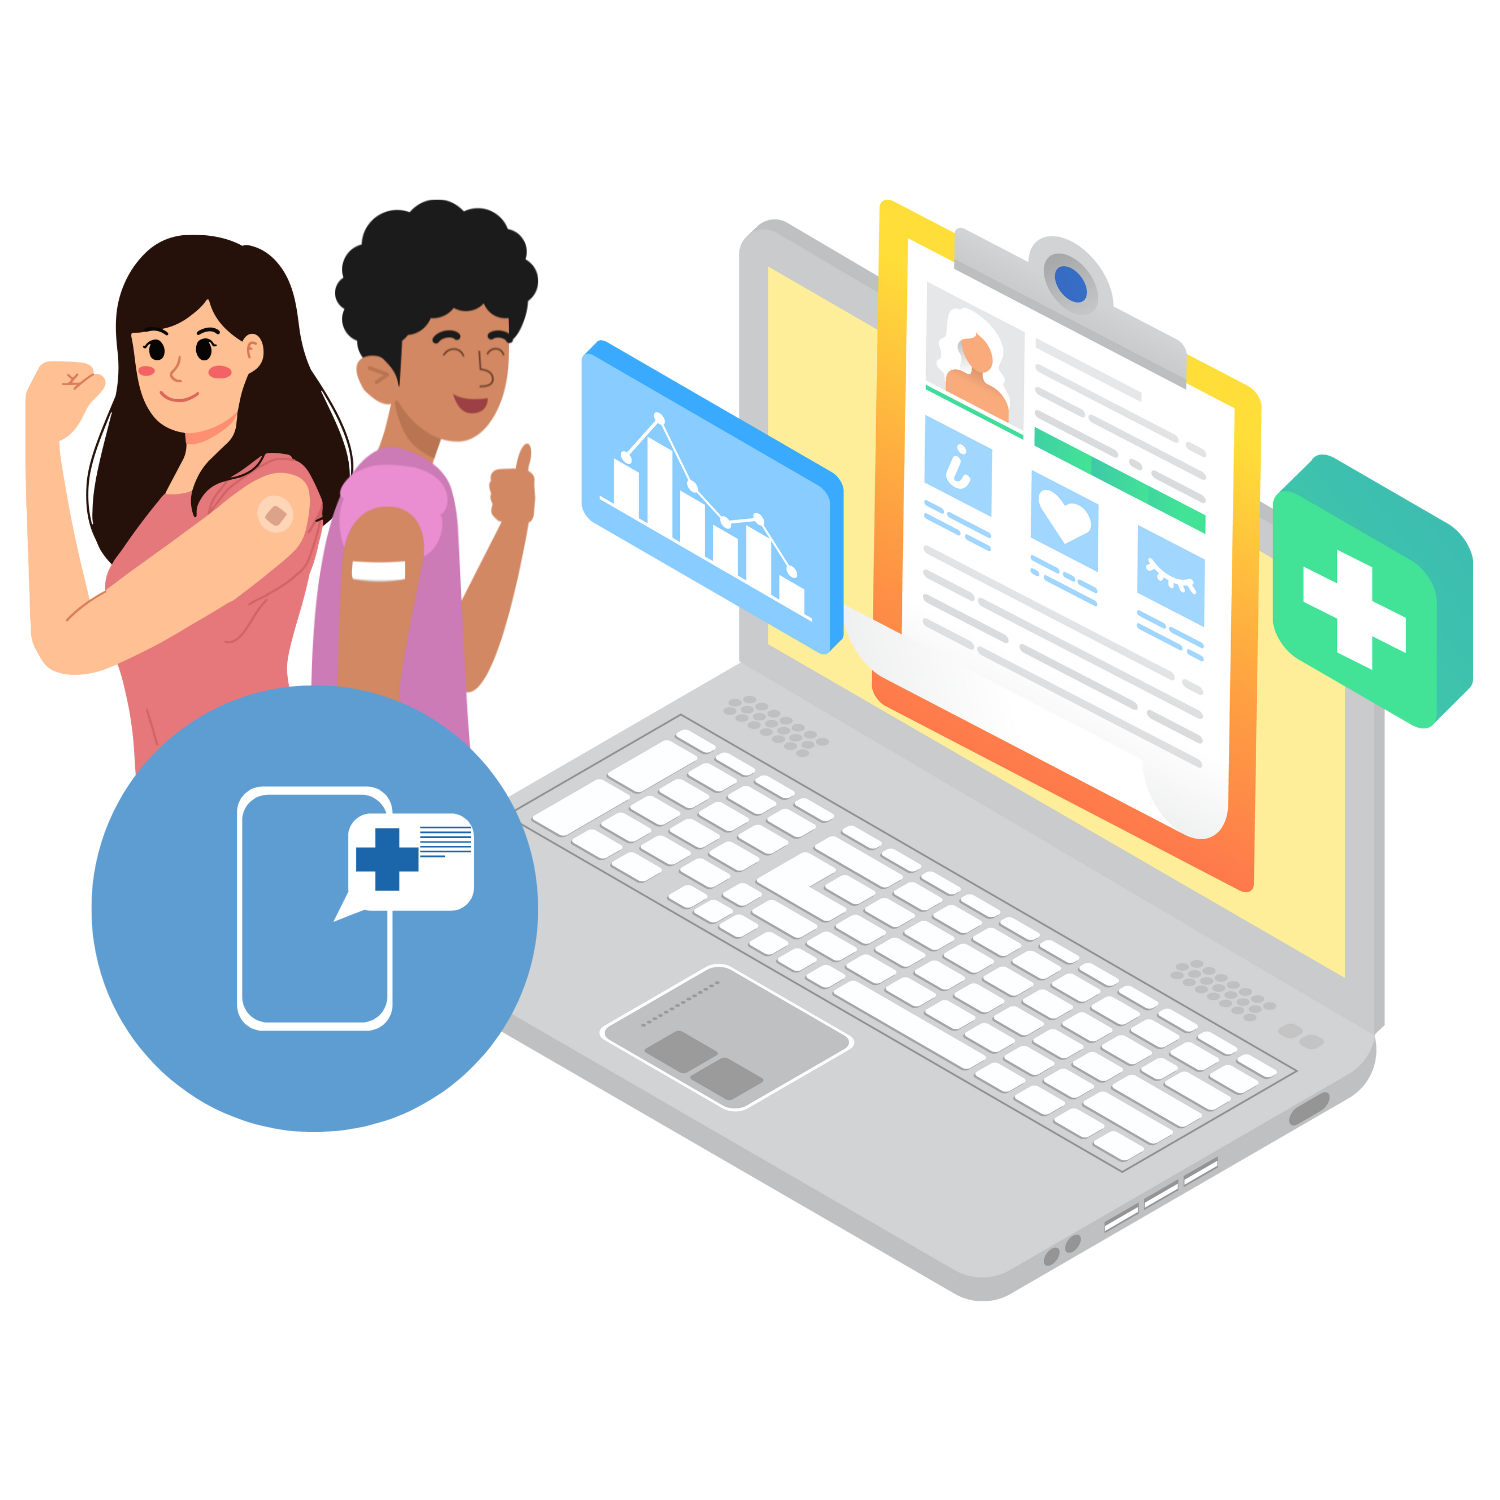
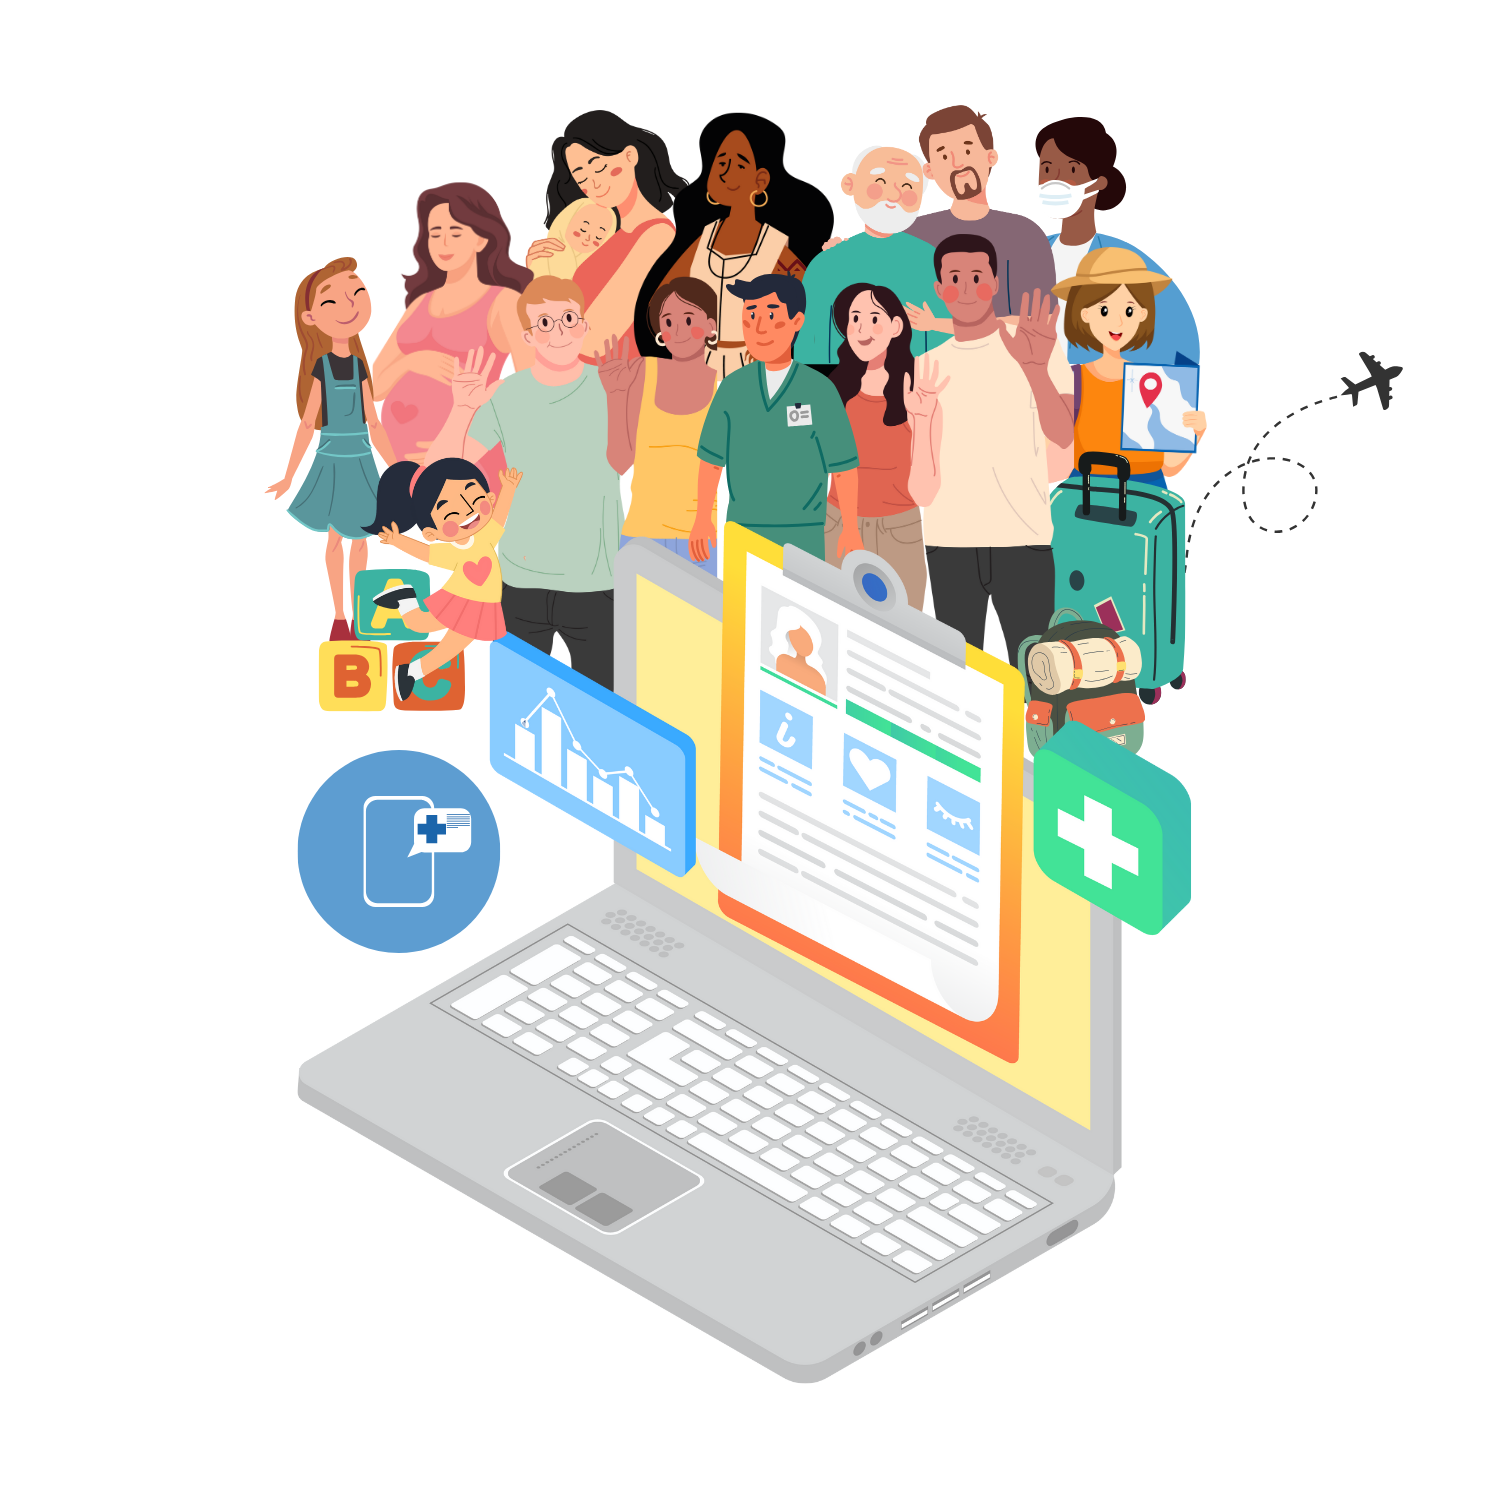
styles(hero): changes image background and hero

diff --git a/src/components/hero.tsx b/src/components/hero.tsx
@@ -11,7 +11,7 @@ export const Hero = () => {
     <Container className="xl:w-full mt-0 p-0 lg:p-0">
       <div
         className="w-fit lg:px-44 h-[90vh] xl:flex-row gap-10 items-center justify-start py-2 flex flex-col bg-no-repeat bg-center bg-cover"
-        style={{ backgroundImage: "url(/images/hero-bg2.png)", backgroundPosition:'center' }}
+        style={{ backgroundImage: "url(/images/hero-bg.jpg)", backgroundPosition:'center' }}
       >
         <div className="flex flex-col gap-4 w-[100%] lg:w-[30%] xl:w-[50%] max-lg:px-4">
           <BoxReveal boxColor={"#8FC0FB"} duration={0.3}>
@@ -38,7 +38,15 @@ export const Hero = () => {
             </h2>
           </BoxReveal>
         </div>
-
+        <BlurFade className="flex flex-1" delay={0.8} duration={0.8}>
+          <Image
+            alt="hero"
+            width={500}
+            height={0}
+            layout="responsive"
+            src="/images/hero.png"
+          />
+        </BlurFade>
       </div>
     </Container>
   );
